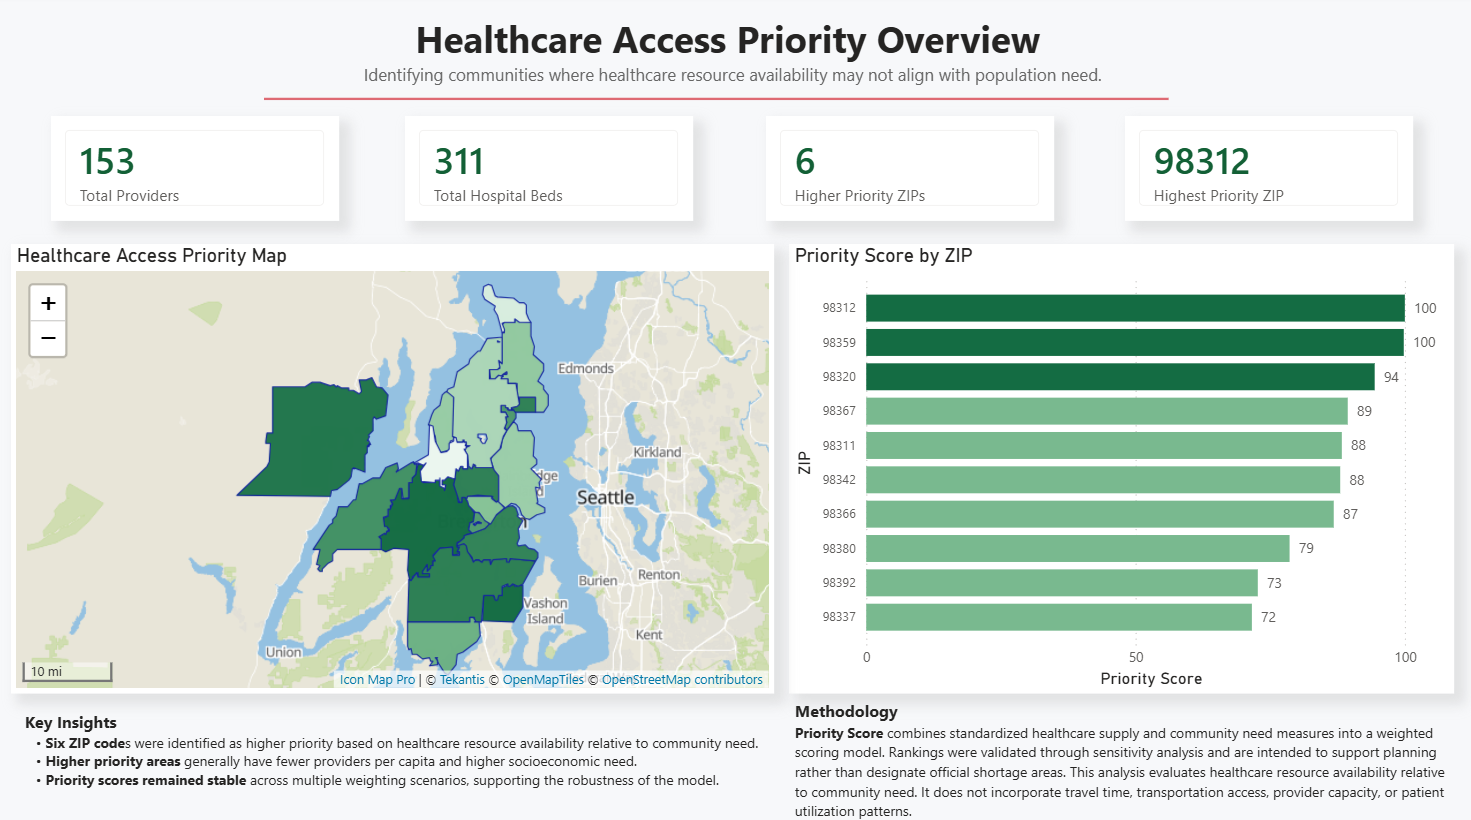
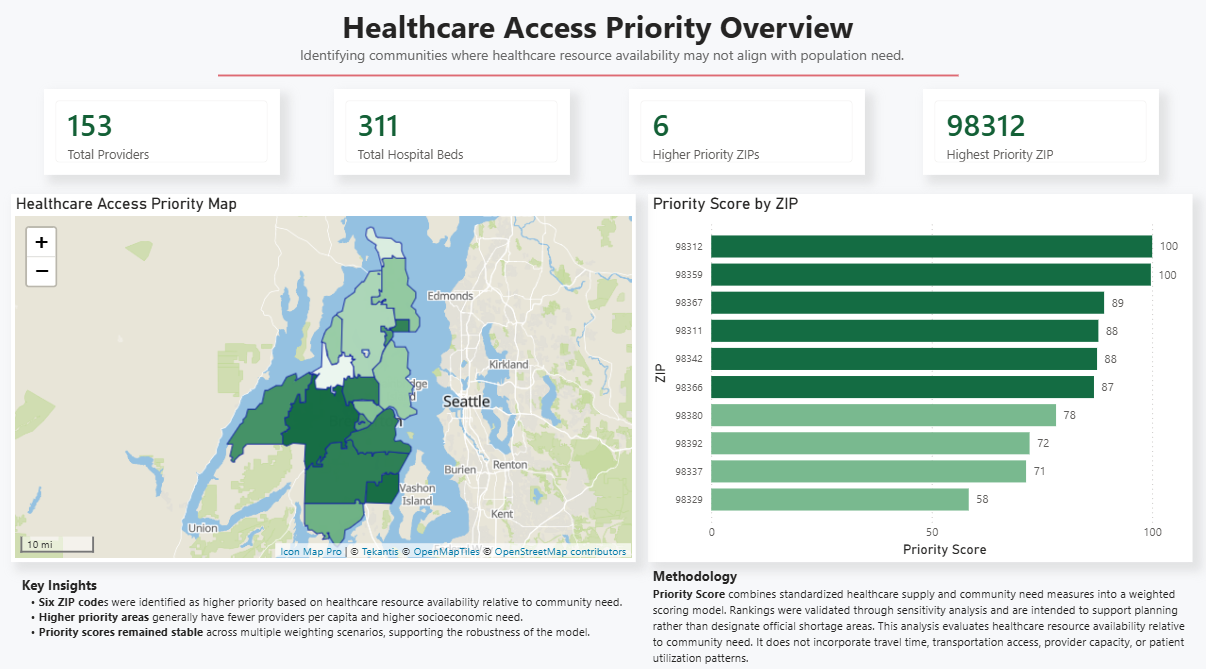
Updated ZIPS to exclude non-Kitsap County

diff --git a/python/01_explore_data.py b/python/01_explore_data.py
@@ -9,8 +9,8 @@ Purpose:
     potential data-quality issues before cleaning.
 
 Inputs:
-    - Data/Raw/Clinics.gdb
-    - Data/Raw/Hospitals.gdb
+    - data/raw/Clinics.gdb
+    - data/raw/Hospitals.gdb
 
 Outputs:
     - Console-based data profiling results
@@ -25,8 +25,8 @@ import geopandas as gpd
 # -----------------------------
 # File paths
 # -----------------------------
-clinic_path = r"Data/Raw/Clinics.gdb"
-hospital_path = r"Data/Raw/Hospitals.gdb"
+clinic_path = r"data/raw/Clinics.gdb"
+hospital_path = r"data/raw/Hospitals.gdb"
 
 # -----------------------------
 # Load datasets
@@ -38,8 +38,8 @@ hospitals = gpd.read_file(hospital_path, layer="Hospitals")
 # Kitsap County ZIP Codes
 # -----------------------------
 kitsap_zips = [
-    "98110","98310", "98311", "98312", "98314", "98315",
-    "98320", "98322", "98329", "98337", "98340",
+    "98110","98310", "98311", "98312", "98314", 
+    "98315", "98322", "98329", "98337", "98340",
     "98342", "98345", "98346", "98353", "98359",
     "98364", "98366", "98367", "98370", "98380",
     "98383", "98384", "98392"

diff --git a/python/03_clean_provider_data.py b/python/03_clean_provider_data.py
@@ -9,8 +9,8 @@ Purpose:
     schemas, and creates one provider master table.
 
 Inputs:
-    - data/Raw/Clinics.gdb
-    - data/Raw/Hospitals.gdb
+    - data/raw/Clinics.gdb
+    - data/raw/Hospitals.gdb
 
 Outputs:
     - data/cleaned/kitsap_provider_master.csv
@@ -30,8 +30,8 @@ from pathlib import Path
 # -----------------------------
 # File paths
 # -----------------------------
-clinic_path = r"data/Raw/Clinics.gdb"
-hospital_path = r"data/Raw/Hospitals.gdb"
+clinic_path = r"data/raw/Clinics.gdb"
+hospital_path = r"data/raw/Hospitals.gdb"
 output_path = Path("data/cleaned")
 output_path.mkdir(parents=True, exist_ok=True)
 
@@ -39,8 +39,8 @@ output_path.mkdir(parents=True, exist_ok=True)
 # Kitsap ZIP Codes
 # -----------------------------
 kitsap_zips = [
-    "98110", "98310", "98311", "98312", "98314", "98315",
-    "98320", "98322", "98329", "98337", "98340",
+    "98110", "98310", "98311", "98312", "98314", 
+    "98315", "98322", "98329", "98337", "98340",
     "98342", "98345", "98346", "98353", "98359",
     "98364", "98366", "98367", "98370", "98380",
     "98383", "98384", "98392"

diff --git a/python/10_geospatial_analysis.py b/python/10_geospatial_analysis.py
@@ -8,7 +8,7 @@ Purpose:
     Tabulation Areas included in the Healthcare Access Equity Analysis.
 
 Inputs:
-    - data/Raw/tl_2025_us_zcta520/tl_2025_us_zcta520.shp
+    - data/raw/tl_2025_us_zcta520/tl_2025_us_zcta520.shp
     - data/cleaned/kitsap_healthcare_equity_metrics.csv
 
 Outputs:
@@ -33,7 +33,7 @@ import pandas as pd
 # File paths
 # --------------------------------------------------
 zcta_path = Path(
-    "data/Raw/tl_2025_us_zcta520/tl_2025_us_zcta520.shp"
+    "data/raw/tl_2025_us_zcta520/tl_2025_us_zcta520.shp"
 )
 
 metrics_path = Path(
@@ -54,7 +54,6 @@ kitsap_zctas = [
     "98312",
     "98314",
     "98315",
-    "98320",
     "98329",
     "98337",
     "98340",
@@ -428,3 +427,4 @@ print(
 )
 
 print(zctas.columns.tolist())
+

diff --git a/python/04_clean_census_data.py b/python/04_clean_census_data.py
@@ -36,6 +36,10 @@ census = census.replace(missing_codes, pd.NA)
 # Remove tiny/special-use ZIPs for community-level analysis
 census = census[census["Total_Population"] >= 500].copy()
 
+# Remove ZCTAs outside the Kitsap County project scope
+excluded_zips = {"98320"}
+census = census[~census["ZIP"].isin(excluded_zips)].copy()
+
 # Recalculate rates after cleaning
 census["Percent_65_Plus"] = (
     census["Population_65_Plus"] / census["Total_Population"] * 100
@@ -64,3 +68,4 @@ print(f"Saved to: {output_path}")
 
 print("\nCleaned Census ZIPs:")
 print(census[["ZIP", "Total_Population", "Median_Age", "Median_Household_Income"]])
+

diff --git a/python/02_get_census_data.py b/python/02_get_census_data.py
@@ -75,8 +75,8 @@ df = df.rename(columns={"zip code tabulation area": "ZIP"})
 
 # Kitsap ZIP codes
 kitsap_zips = [
-    "98110", "98310", "98311", "98312", "98314", "98315",
-    "98320", "98322", "98329", "98337", "98340",
+    "98110", "98310", "98311", "98312", "98314", 
+    "98315", "98322", "98329", "98337", "98340",
     "98342", "98345", "98346", "98353", "98359",
     "98364", "98366", "98367", "98370", "98380",
     "98383", "98384", "98392"

diff --git a/README.md b/README.md
@@ -13,7 +13,7 @@ An end-to-end healthcare analytics project that combines public demographic, hea
 
 Using Python, SQLite, and Power BI, I developed a Healthcare Access Priority Score to help visualize potential disparities in healthcare access across Kitsap County, Washington.
 
-**The analysis identified three communities with the highest Healthcare Access Priority Scores, each representing a different pattern of potential healthcare access challenges for further investigation.**
+**The analysis identified 98312 (West Bremerton), 98359 (Olalla), and 98367 (Port Orchard area) as the highest-priority communities for further investigation, each representing a different pattern of potential healthcare access challenges.**
 
 ---
 
@@ -60,7 +60,7 @@ This project combines data from three public sources:
 
 - Imported healthcare facility, census, and geographic boundary datasets
 - Cleaned and standardized ZIP code data
-- Filtered records to Kitsap County communities
+- Filtered records to Kitsap County ZIP Code Tabulation Areas (ZCTAs)
 
 ### 2. Data Integration
 
@@ -101,6 +101,20 @@ Built an interactive Power BI report featuring:
 
 ---
 
+## Reproducible Analysis Pipeline
+
+The analysis was automated using a 10-step Python workflow that:
+
+- Collects public Census data
+- Cleans and standardizes demographic and provider datasets
+- Calculates healthcare supply metrics
+- Builds a SQLite database
+- Generates the Healthcare Access Priority Score
+- Performs sensitivity analysis
+- Produces the geospatial dataset used in Power BI
+
+---
+
 # 📊 Dashboard Preview
 
 ## Executive Dashboard
@@ -123,9 +137,9 @@ The Healthcare Access Priority Model identified three communities as the highest
 |-----------|-------------|
 | **98312 (West Bremerton)** | Large population with **comparatively limited provider availability** (1.86 providers per 10,000 residents). |
 | **98359 (Olalla)** | No local healthcare facilities identified within the ZIP code. |
-| **98320 (Brinnon)** | Older rural community with no local healthcare facilities identified. |
+| **98367 (Port Orchard area)** | Large residential community with no local healthcare facilities identified despite serving more than 31,000 residents. |
 
-> **Recommendation:** Use these findings to prioritize additional community assessment, including travel time, provider capacity, transportation access, and other local barriers not captured in this analysis.
+> **Recommendation:** Use these findings to prioritize targeted community assessment, including travel time, provider capacity, transportation access, and other local barriers not captured in this analysis.
 
 > **Note:** The Healthcare Access Priority Score is intended as a screening tool to identify communities that may warrant further investigation. It does not directly measure healthcare access or account for factors such as travel time, provider capacity, or patient utilization.
 
@@ -166,7 +180,7 @@ healthcare_access_kitsap/
 
 ## Project Takeaways
 
-This project demonstrates an end-to-end healthcare analytics workflow—from collecting and preparing public datasets to developing a scoring model and communicating findings through interactive dashboards and executive presentations.
+This project demonstrates an end-to-end healthcare analytics workflow—from acquiring and integrating public datasets to developing a reproducible healthcare prioritization model and communicating findings through interactive dashboards and executive presentations.
 
 While the Healthcare Access Priority Score is intended as a screening tool rather than a direct measure of healthcare access, it illustrates how publicly available data can be integrated to support evidence-based decision making.
 
@@ -180,3 +194,12 @@ Healthcare Data Analyst passionate about using analytics, visualization, and pub
 
 - LinkedIn: https://www.linkedin.com/in/jencfordham/
 - GitHub: https://github.com/JenFordham
+
+## More Projects
+
+Interested in more healthcare analytics work?
+
+➡️ **Healthcare Duplicate MRN Analytics Platform**
+- Operational healthcare analytics
+- SQL, Python, SQLite, Power BI
+- Root-cause analysis of duplicate medical record creation